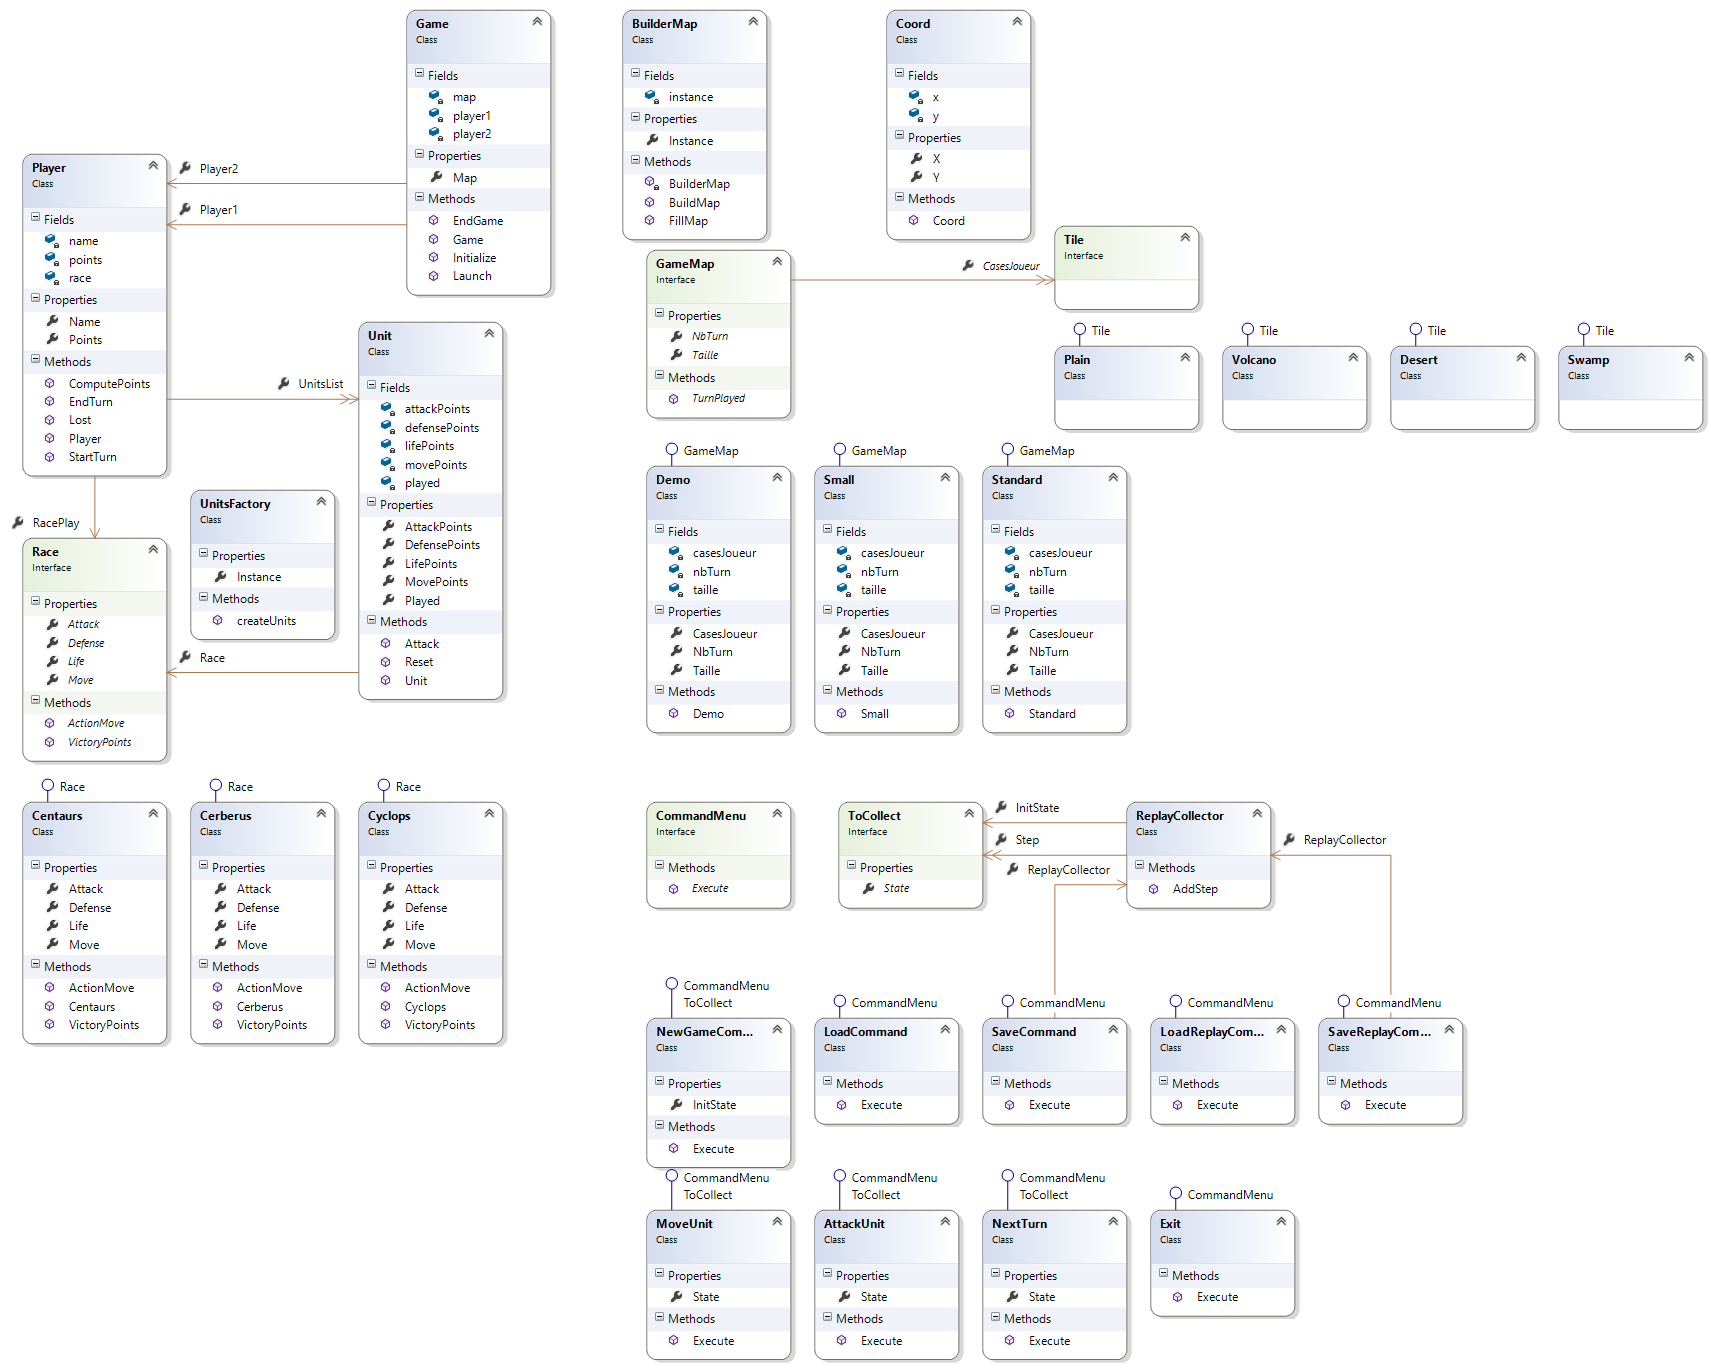
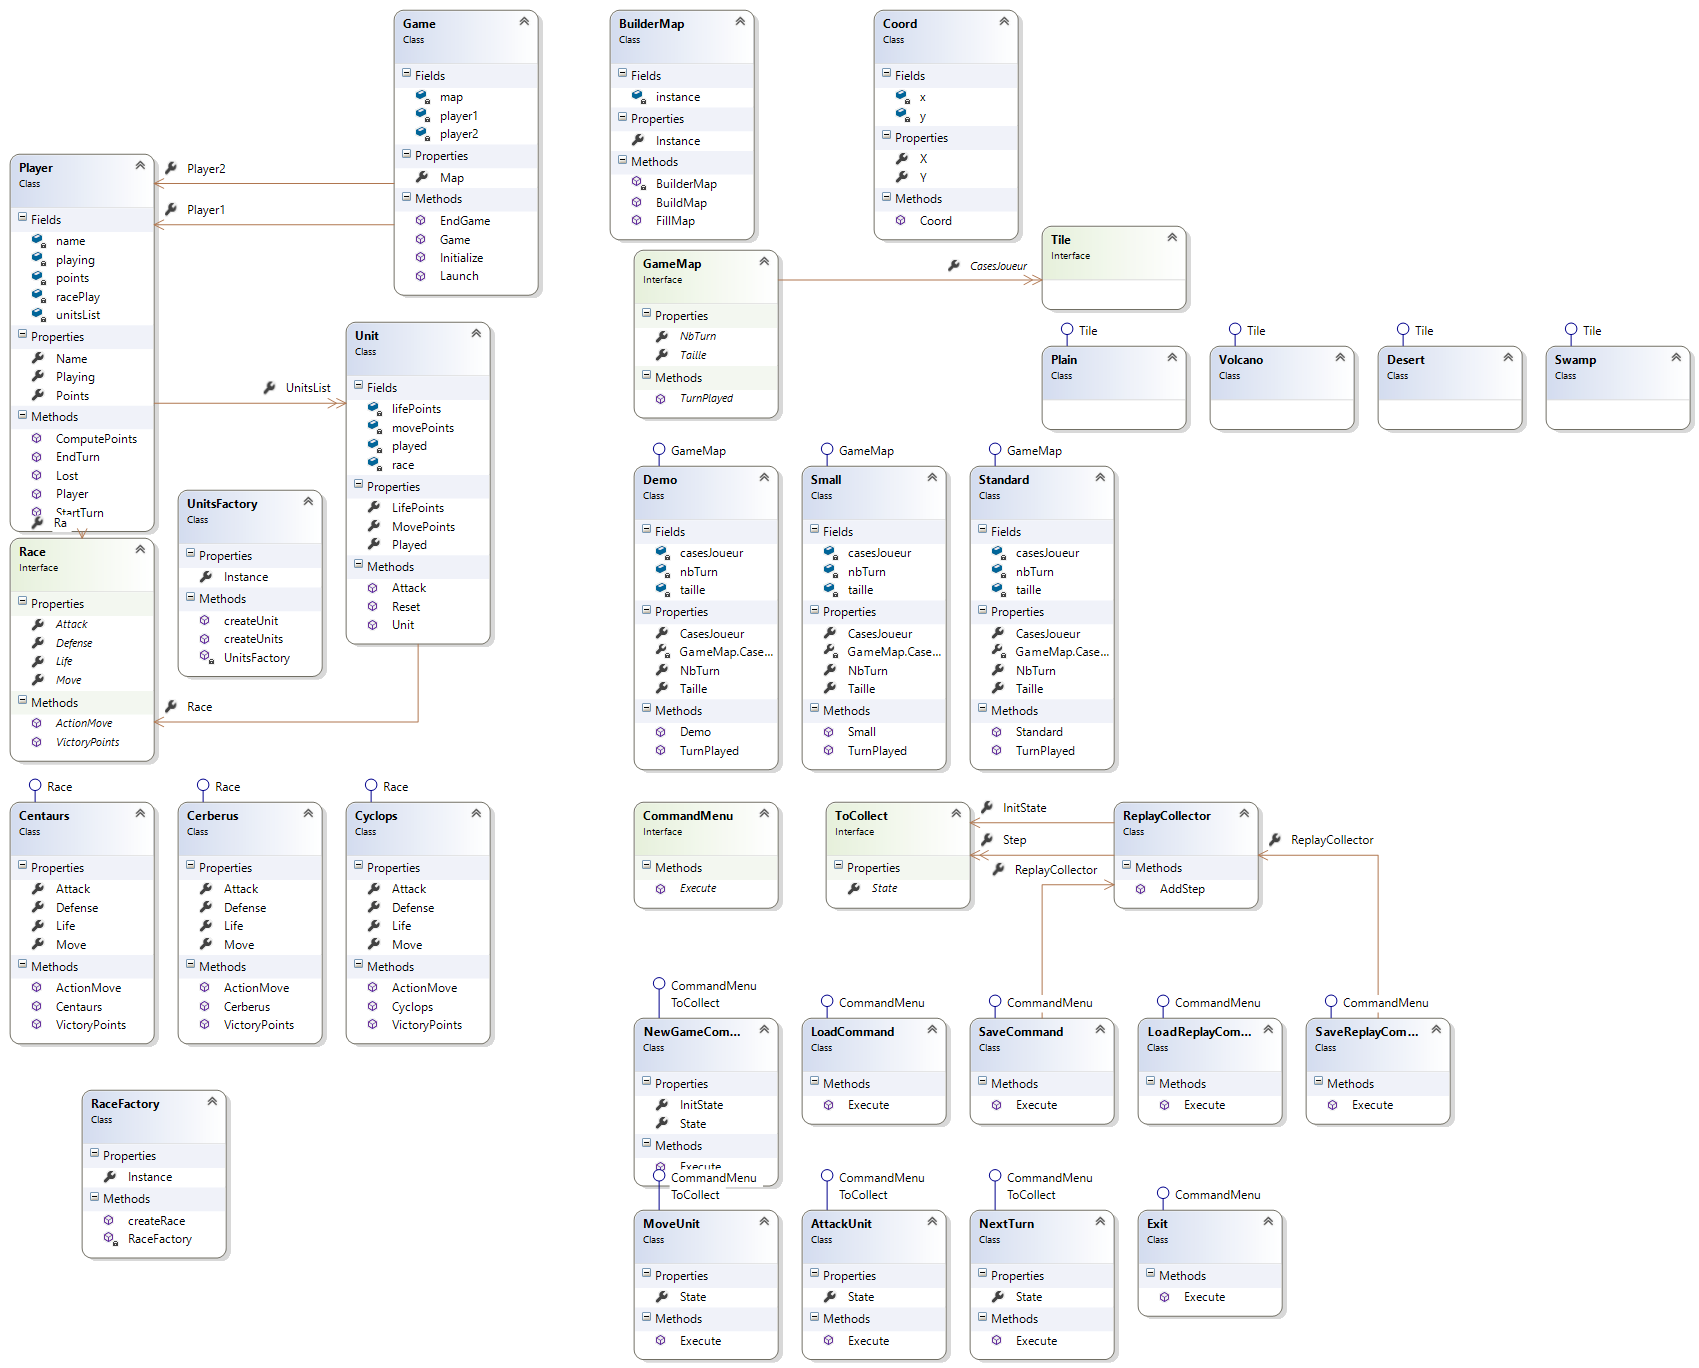
Tests race and player

diff --git a/INSAWORLD/InsaworldTEST/CentaursTest.cs b/INSAWORLD/InsaworldTEST/CentaursTest.cs
@@ -1,0 +1,60 @@
+using System;
+using Microsoft.VisualStudio.TestTools.UnitTesting;
+using INSAWORLD;
+
+namespace InsaworldTEST
+{
+    [TestClass]
+    public class CentaursTest
+    {
+
+        Player p;
+
+        [TestInitialize()]
+        public void Initialize()
+        {
+            p = new Player("Michel", 0);
+        }
+
+        [TestMethod]
+        public void TestCentaurs()
+        {
+            Assert.IsInstanceOfType(p.RacePlay, typeof(Centaurs));
+            Assert.IsNotNull(p.RacePlay.Life);
+        }
+
+        [TestMethod]
+        public void TestActionMove()
+        {
+            System.Collections.Generic.IEnumerator<Unit> uList = p.UnitsList.Keys.GetEnumerator();
+            Unit u = uList.Current;
+            Coord c;
+            p.UnitsList.TryGetValue(u, out c);
+            Coord changed = new Coord(c.X + 1, c.Y + 1);
+            p.RacePlay.ActionMove(u, changed);
+            Coord n;
+            p.UnitsList.TryGetValue(u, out n);
+            Assert.AreEqual(changed, n);
+        }
+
+        [TestMethod]
+        [ExpectedException(typeof(OutOfBoundException))]
+        public void TestActionMoveFail()
+        {
+            System.Collections.Generic.IEnumerator<Unit> uList = p.UnitsList.Keys.GetEnumerator();
+            Unit u = uList.Current;
+            Coord c;
+            p.UnitsList.TryGetValue(u, out c);
+            Coord changed = new Coord(c.X + 10, c.Y + 10);
+            p.RacePlay.ActionMove(u, changed);
+        }
+
+        [TestMethod]
+        public void TestVictoryPoints()
+        {
+            Assert.IsTrue(p.UnitsList != null & p.RacePlay.VictoryPoints() > 0);
+            p.UnitsList.Clear();
+            Assert.IsTrue(p.RacePlay.VictoryPoints() == 0);
+        }
+    }
+}

diff --git a/INSAWORLD/InsaworldTEST/CerberusTest.cs b/INSAWORLD/InsaworldTEST/CerberusTest.cs
@@ -1,0 +1,59 @@
+using System;
+using Microsoft.VisualStudio.TestTools.UnitTesting;
+using INSAWORLD;
+
+namespace InsaworldTEST
+{
+    [TestClass]
+    public class CerberusTest
+    {
+        Player p;
+
+        [TestInitialize()]
+        public void Initialize()
+        {
+            p = new Player("Michel", 2);
+        }
+
+        [TestMethod]
+        public void TestCentaurs()
+        {
+            Assert.IsInstanceOfType(p.RacePlay, typeof(Cerberus));
+            Assert.IsNotNull(p.RacePlay.Life);
+        }
+
+        [TestMethod]
+        public void TestActionMove()
+        {
+            System.Collections.Generic.IEnumerator<Unit> uList = p.UnitsList.Keys.GetEnumerator();
+            Unit u = uList.Current;
+            Coord c;
+            p.UnitsList.TryGetValue(u, out c);
+            Coord changed = new Coord(c.X + 1, c.Y + 1);
+            p.RacePlay.ActionMove(u, changed);
+            Coord n;
+            p.UnitsList.TryGetValue(u, out n);
+            Assert.AreEqual(changed, n);
+        }
+
+        [TestMethod]
+        [ExpectedException(typeof(OutOfBoundException))]
+        public void TestActionMoveFail()
+        {
+            System.Collections.Generic.IEnumerator<Unit> uList = p.UnitsList.Keys.GetEnumerator();
+            Unit u = uList.Current;
+            Coord c;
+            p.UnitsList.TryGetValue(u, out c);
+            Coord changed = new Coord(c.X + 10, c.Y + 10);
+            p.RacePlay.ActionMove(u, changed);
+        }
+
+        [TestMethod]
+        public void TestVictoryPoints()
+        {
+            Assert.IsTrue(p.UnitsList != null & p.RacePlay.VictoryPoints() > 0);
+            p.UnitsList.Clear();
+            Assert.IsTrue(p.RacePlay.VictoryPoints() == 0);
+        }
+    }
+}

diff --git a/INSAWORLD/InsaworldTEST/CyclopsTest.cs b/INSAWORLD/InsaworldTEST/CyclopsTest.cs
@@ -1,0 +1,59 @@
+using System;
+using Microsoft.VisualStudio.TestTools.UnitTesting;
+using INSAWORLD;
+
+namespace InsaworldTEST
+{
+    [TestClass]
+    public class CyclopsTest
+    {
+        Player p;
+
+        [TestInitialize()]
+        public void Initialize()
+        {
+            p = new Player("Michel", 1);
+        }
+
+        [TestMethod]
+        public void TestCentaurs()
+        {
+            Assert.IsInstanceOfType(p.RacePlay, typeof(Cyclops));
+            Assert.IsNotNull(p.RacePlay.Life);
+        }
+
+        [TestMethod]
+        public void TestActionMove()
+        {
+            System.Collections.Generic.IEnumerator<Unit> uList = p.UnitsList.Keys.GetEnumerator();
+            Unit u = uList.Current;
+            Coord c;
+            p.UnitsList.TryGetValue(u, out c);
+            Coord changed = new Coord(c.X + 1, c.Y + 1);
+            p.RacePlay.ActionMove(u, changed);
+            Coord n;
+            p.UnitsList.TryGetValue(u, out n);
+            Assert.AreEqual(changed, n);
+        }
+
+        [TestMethod]
+        [ExpectedException(typeof(OutOfBoundException))]
+        public void TestActionMoveFail()
+        {
+            System.Collections.Generic.IEnumerator<Unit> uList = p.UnitsList.Keys.GetEnumerator();
+            Unit u = uList.Current;
+            Coord c;
+            p.UnitsList.TryGetValue(u, out c);
+            Coord changed = new Coord(c.X + 10, c.Y + 10);
+            p.RacePlay.ActionMove(u, changed);
+        }
+
+        [TestMethod]
+        public void TestVictoryPoints()
+        {
+            Assert.IsTrue(p.UnitsList != null & p.RacePlay.VictoryPoints() > 0);
+            p.UnitsList.Clear();
+            Assert.IsTrue(p.RacePlay.VictoryPoints() == 0);
+        }
+    }
+}

diff --git a/INSAWORLD/InsaworldTEST/PlayerTest.cs b/INSAWORLD/InsaworldTEST/PlayerTest.cs
@@ -1,0 +1,54 @@
+using System;
+using Microsoft.VisualStudio.TestTools.UnitTesting;
+using INSAWORLD;
+
+namespace InsaworldTEST
+{
+    [TestClass]
+    public class PlayerTest
+    {
+
+        Player p;
+        Player l;
+
+        [TestInitialize()]
+        public void Initialize()
+        {
+            p = new Player("Bob", 0);
+            l = new Player("Jean", 1);
+        }
+
+        [TestMethod]
+        public void TestPlayer()
+        {
+            Assert.IsNotNull(p.RacePlay);
+        }
+
+        public void TestStartTurn()
+        {
+            p.StartTurn();
+            Assert.IsTrue(p.Playing);
+        }
+
+        public void TestEndTurn()
+        {
+            p.EndTurn();
+            Assert.IsFalse(p.Playing);
+        }
+
+        public void TestLost()
+        {
+            p.ComputePoints();
+            l.ComputePoints();
+            bool temp = p.Points < l.Points;
+            Assert.AreEqual(p.Lost(), temp);
+        }
+
+        public void TestComputePoints()
+        {
+            int temp = p.Points;
+            p.ComputePoints();
+            Assert.IsTrue(temp <= p.Points);
+        }
+    }
+}

diff --git a/INSAWORLD/INSAWORLD/Player.cs b/INSAWORLD/INSAWORLD/Player.cs
@@ -10,7 +10,7 @@ namespace INSAWORLD
         private string name; //name of the player 
         private Race racePlay; //race choosen by the player 
         private int points; //points earned by the player 
-        IDictionary<Coord, Unit> unitsList; //units of the player 
+        IDictionary<Unit, Coord> unitsList; //units of the player 
         private bool playing; //player currently playing
 
         public Player(string n, int race)
@@ -43,7 +43,6 @@ namespace INSAWORLD
         public int Points
         {
             get;
-            set;
         }
 
         public Race RacePlay
@@ -52,16 +51,15 @@ namespace INSAWORLD
             set;
         }
 
-        public IDictionary<Coord, Unit> UnitsList
+        public IDictionary<Unit, Coord> UnitsList
         {
             get;
             set;
         }
 
-            public bool Playing
+        public bool Playing
         {
             get;
-            set;
         }
 
         // method : return true if the game is lost by the player

diff --git a/INSAWORLD/INSAWORLD/Race.cs b/INSAWORLD/INSAWORLD/Race.cs
@@ -11,29 +11,25 @@ namespace INSAWORLD
         int Attack
         {
             get;
-            set;
         }
 
         int Defense
         {
             get;
-            set;
         }
 
         int Life
         {
             get;
-            set;
         }
 
         int Move
         {
             get;
-            set;
         }
 
         int VictoryPoints();
 
-        void ActionMove();
+        void ActionMove(Unit u, Coord c);
     }
 }

diff --git a/INSAWORLD/INSAWORLD/Centaurs.cs b/INSAWORLD/INSAWORLD/Centaurs.cs
@@ -1,15 +1,12 @@
 using System;
-using System.Collections.Generic;
-using System.Linq;
-using System.Text;
 
 namespace INSAWORLD
 {
-    public class Cerberus : Race
+    public class Centaurs : Race
     {
         //contains units of the race (so player) and their coordinates on the map
 
-        public Cerberus()
+        public Centaurs()
         {
             //add base units of the race
         }

diff --git a/INSAWORLD/INSAWORLD/OutOfBoundException.cs b/INSAWORLD/INSAWORLD/OutOfBoundException.cs
@@ -1,0 +1,13 @@
+using System;
+using System.Collections.Generic;
+using System.Linq;
+using System.Text;
+using System.Threading.Tasks;
+
+namespace INSAWORLD
+{
+    public class OutOfBoundException : Exception
+    {
+        
+    }
+}

diff --git a/INSAWORLD/INSAWORLD/MoveUnit.cs b/INSAWORLD/INSAWORLD/MoveUnit.cs
@@ -1,7 +1,4 @@
 using System;
-using System.Collections.Generic;
-using System.Linq;
-using System.Text;
 
 namespace INSAWORLD
 {
